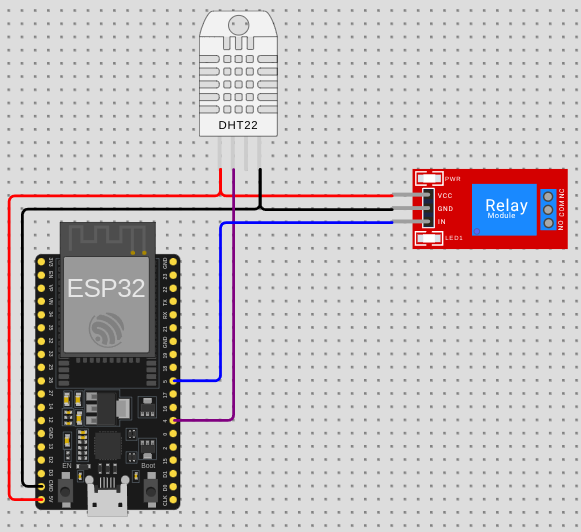
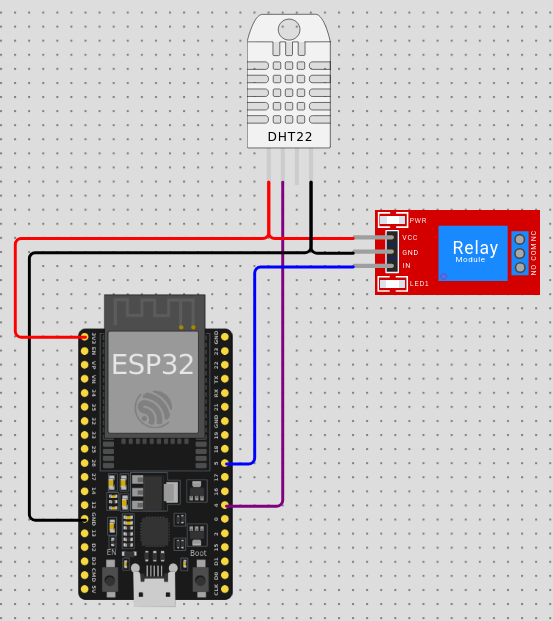
Correction article microcontrôleurs

diff --git a/src/content/docs/electronics/basics/course-microcontrollers-basics.md b/src/content/docs/electronics/basics/course-microcontrollers-basics.md
@@ -148,11 +148,15 @@ Ici, nous avons deux choses très importantes pour notre mini-projet, le circuit
 
 Le schéma du circuit est très simple, en voici une description rapide :
 
-- Nous avons le fil rouge, qui permet de distribuer l'alimentation 5 V de l'ESP32 au capteur et au relais
+- Nous avons le fil rouge, qui permet de distribuer l'alimentation 3,3 V de l'ESP32 au capteur et au relais
 - Le fil noir est la masse, le 0 V
 - Le fil violet qui est relié au pin numéro 4 de l'ESP32 comme on peut le lire dans le code, sur lequel va transiter la donnée de la température
 - Le fil bleu qui est le fil de données du relais, relié au pin 5 de l'ESP32 et qui permet d'envoyer un ordre d'ouverture ou de fermeture au relais.
 - Le côté non câblé du relais doit être relié à notre chauffage entre ses pins **COM et NO** (commun et normalement ouvert) : quand le relais reçoit 0 (au repos), le lien électrique se fait entre COM et NC (normalement fermé) et le chauffage est coupé ; quand le relais reçoit un 1 (`HIGH`), le contact bascule entre COM et NO et le chauffage est alimenté.
+
+À noter ici que le relais pourrait s'alimenter dans un circuit réel en 5 V et non en 3,3 V, auquel cas le fil rouge du relais devrait être relié au 5 V de l'ESP32 et non à son 3,3 V. L'information se trouve dans la datasheet du composant.
+
+Le DHT22 peut s'alimenter en 5 V, mais il utilise la tension d'alimentation pour transmettre ses données, et les pins de données de l'ESP32 ne sont pas tolérantes au 5 V, d'où l'alimentation en 3,3 V.
 
 Maintenant, sans entrer dans les détails (des articles traitant spécifiquement de programmation embarquée sont prévus), le code fonctionne de cette manière :
 

diff --git a/src/content/docs/mentions-legales.md b/src/content/docs/mentions-legales.md
@@ -16,7 +16,7 @@ Le site **zahkthar.fr** est un site personnel édité à titre non professionnel
 - **Contact** : [contact@zahkthar.fr](mailto:contact@zahkthar.fr)
 - **Statut** : Particulier — éditeur non professionnel (article 6-III-2 de la LCEN)
 
-Conformément à l'article 6-III-2 de la LCEN, l'éditeur agissant à titre non professionnel a fait le choix de ne pas rendre publiques son identité civile et son adresse personnelle ; ces informations ont été communiquées à l'hébergeur du site. *(Si vous souhaitez apparaître nominativement, vous pouvez remplacer ces lignes par vos nom, prénom et adresse postale.)*
+Conformément à l'article 6-III-2 de la LCEN, l'éditeur agissant à titre non professionnel a fait le choix de ne pas rendre publiques son identité civile et son adresse personnelle ; ces informations ont été communiquées à l'hébergeur du site.
 
 ## Hébergement
 
@@ -25,8 +25,6 @@ Le site est hébergé via le service **GitHub Pages** fourni par :
 - **Société** : GitHub, Inc. (pour l'Espace Économique Européen : GitHub B.V.)
 - **Adresse** : 88 Colin P. Kelly Jr. Street, San Francisco, CA 94107, États-Unis *(entité UE : Prins Bernhardplein 200, 1097 JB Amsterdam, Pays-Bas)*
 - **Site web** : [https://pages.github.com](https://pages.github.com)
-
-*(À compléter le cas échéant avec le nom de votre bureau d'enregistrement pour le nom de domaine `zahkthar.fr`.)*
 
 ## Propriété intellectuelle
 
